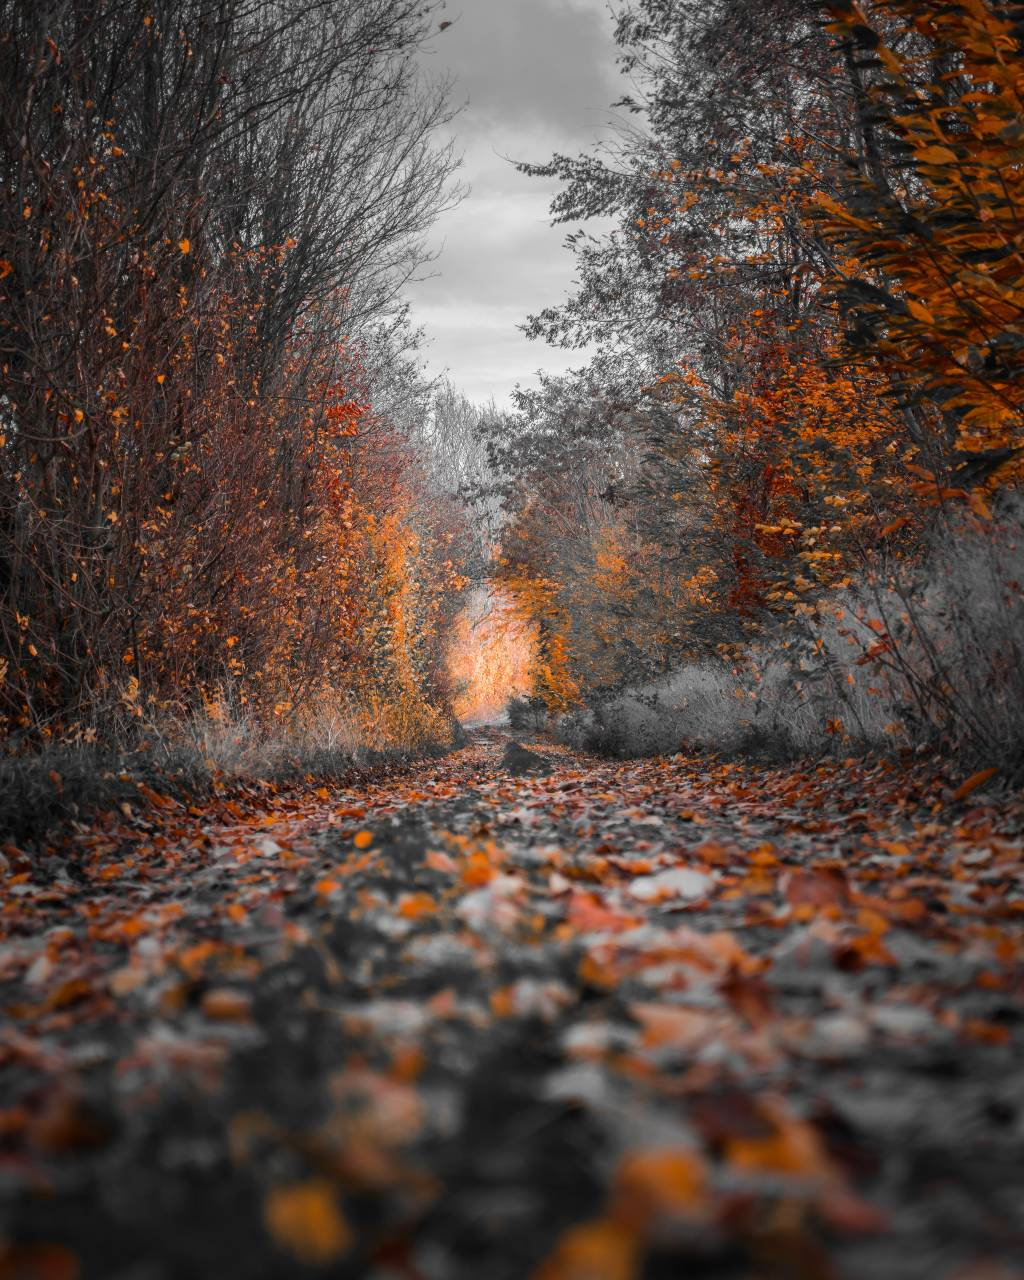
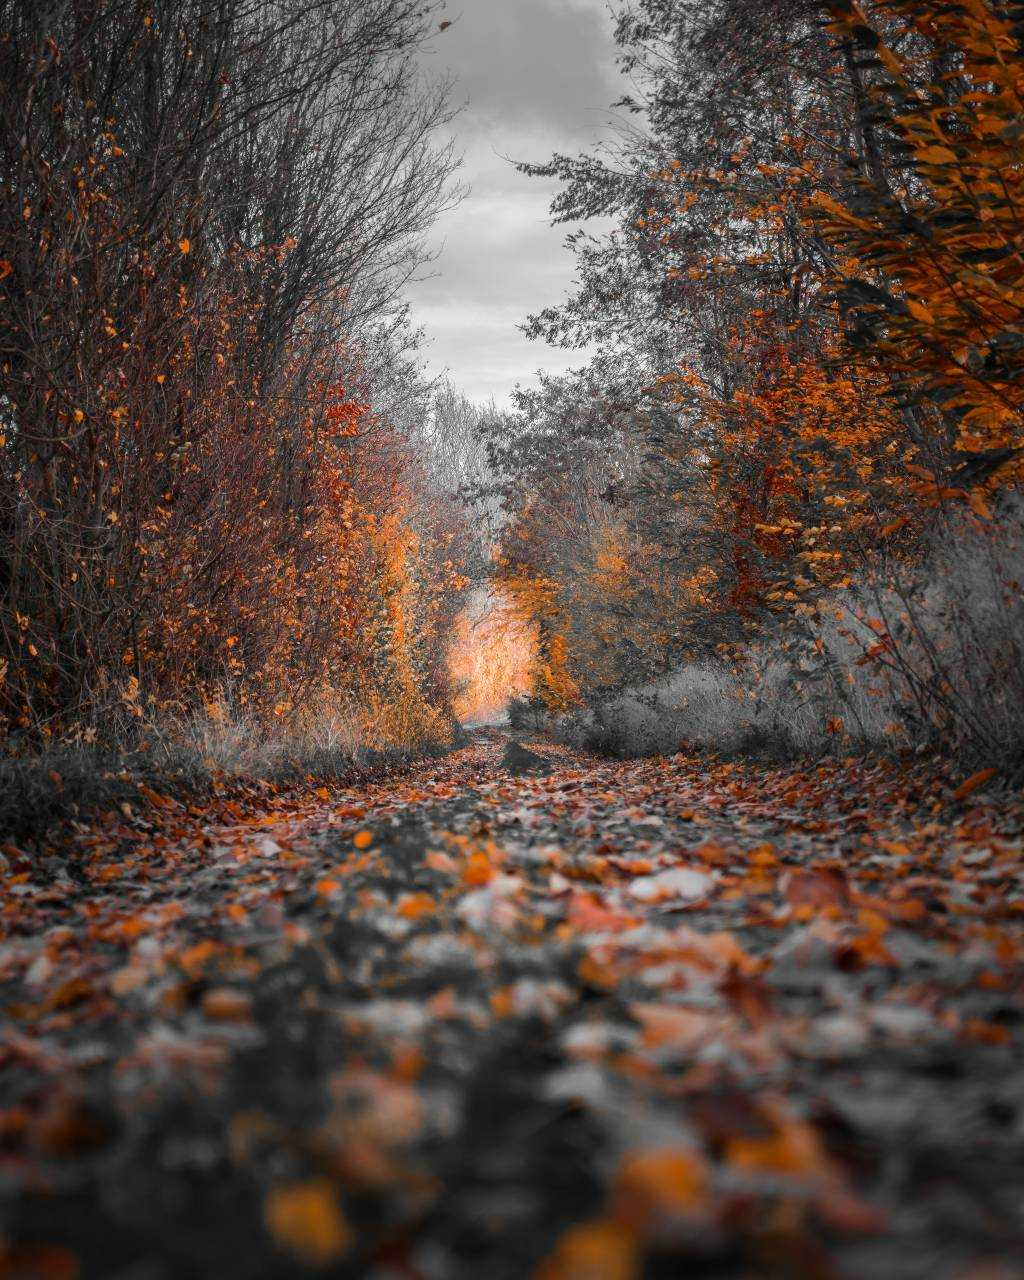
optimized fall img more

diff --git a/lesson6/preston-6.html b/lesson6/preston-6.html
@@ -55,6 +55,8 @@
         <h2>Preston Idaho</h2>
         <div class="top_div">
             <picture>
+                <source srcset="images/hero_small.jpg" media="(min-width: 500px) and
+                (max-width: 799px)">
                 <img id="winter_img" src="images/winter.jpg" alt="snow">
             </picture>
             <div class="w_summary">
